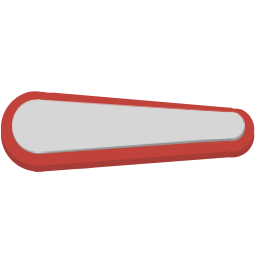
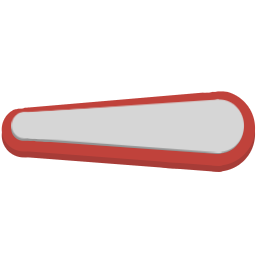
flippers & circles

Changed region(s): [[0.0, 0.3438, 1.0, 0.6875]]

diff --git a/machines.js b/machines.js
@@ -1,5 +1,6 @@
 function nullFunction() {}
 
+//piston
 function drawPistonShadow(obj, x, y, w, h) {
   let W = hole.fairway[0].length;
 
@@ -47,7 +48,6 @@ function drawPiston(obj, x, y, w, h) {
   drawStaticObject(x, y, obj.x + 0.5, obj.y + 0.5, w / W, pistonBlock, 1, obj.rotation, 0, 0);
 }
 
-
 function activatePiston(piston) {
   if(ball.isActive() && piston.body.c_velocity.v.length() > 0.01) { return; }
   let pistonStrength = 290 * (piston.power ? piston.power : 1);
@@ -56,7 +56,7 @@ function activatePiston(piston) {
     -Math.cos(piston.body.getAngle()) * pistonStrength), true);
 }
 
-
+//gate
 function drawGateShadow(obj, x, y, w, h) {
   let W = hole.fairway[0].length;
   drawObject(x + w / W * 0.02, y + w / W * 0.02, w / W, obj.gate1, gateShadow, 1, 0.5, 0, -0.25);
@@ -85,7 +85,7 @@ function activateGate(gate) {
   gate.active = !gate.active;
 }
 
-
+//trap door
 function drawTrapDoor(door, x, y, w, h) {
   if(door.active) {
     if(door.active &&
@@ -103,7 +103,7 @@ function activateTrapDoor(door) {
   door.active = !door.active;
 }
 
-
+//wedge
 function drawWedgeShadow(obj, x, y, w, h) {
   let W = hole.fairway[0].length;
 
@@ -118,6 +118,36 @@ function drawWedge(obj, x, y, w, h) {
   drawStaticObject(x, y, obj.x + 0.5, obj.y + 0.5, w / W, wedge, 1, obj.rotation, 0, 0);
 }
 
+//flipper
+function drawFlipperShadow(obj, x, y, w, h) {
+  let W = hole.fairway[0].length;
+  drawObject(x+w/W*0.02, y+w/W*0.02, w / W, obj.body, flipperShadow, 1, 0, -0.04,0,1,obj.f);
+  drawObject(x+w/W*0.04, y+w/W*0.04, w / W, obj.body, flipperShadow, 1, 0, -0.04,0,1,obj.f);
+  drawObject(x+w/W*0.06, y+w/W*0.06, w / W, obj.body, flipperShadow, 1, 0, -0.04,0,1,obj.f);
+}
+
+function drawFlipper(obj, x, y, w, h) {
+  let W = hole.fairway[0].length;
+  drawObject(x, y, w / W, obj.body, flipper, 1, 0, -0.04,0,1,obj.f);
+}
+
+function activateFlipper(obj) {
+  obj.active=!obj.active;
+  obj.joint.setMotorSpeed(obj.active?10:-10);
+}
+
+//wedge
+function drawCircleShadow(obj, x, y, w, h) {
+  let W = hole.fairway[0].length;
+}
+
+function drawCircle(obj, x, y, w, h) {
+  let W = hole.fairway[0].length;
+
+  drawStaticObject(x, y, obj.x + 0.5, obj.y + 0.5, w / W, circle);
+}
+
+//initializer
 function machine(m) {
   switch (m.type) {
     case 'trapDoor': {
@@ -269,6 +299,79 @@ function machine(m) {
       };
       for(let v in m) {
         obj[v] = m[v];
+      }
+      return obj;
+    }
+    case 'circle': {
+      let block = world.createBody(vec2(m.x + 0.5, m.y + 0.5));
+      block.createFixture(pl.Circle(0.4), 1);
+      let obj = {
+        body: block,
+        drawShadow: nullFunction,
+        draw: drawCircle,
+        activate: a => {}
+      };
+      for(let v in m) {
+        obj[v] = m[v];
+      }
+      return obj;
+    }
+    case 'flipper': {
+      let ground = world.createBody(vec2(m.x + 0.5, m.y + 0.5));
+      let flipper = world.createDynamicBody({
+        bullet: true,
+        position: vec2(
+          m.x + 0.5 + 0 * Math.cos(Math.PI * 2 * m.rotation),
+          m.y + 0.5 + 0 * Math.sin(Math.PI * 2 * m.rotation)),
+        angle: Math.PI * 2 * (m.rotation)
+      });
+
+      let xM = m.variety === 'right'?1:-1;
+
+      flipper.createFixture(pl.Polygon([
+        vec2(xM*-0.42, -0.09),
+        vec2(xM*-0.47, -0.07),
+        vec2(xM*-0.5, 0),
+        vec2(xM*-0.47, 0.07),
+        vec2(xM*-0.42, 0.09),
+        vec2(xM*0.38, 0.15),
+        vec2(xM*0.45, 0.11),
+        vec2(xM*0.5, 0),
+        vec2(xM*0.45, -0.11),
+        vec2(xM*0.38, -0.15),
+      ]), 10);
+
+      let gateD = {
+        enableMotor: true,
+        maxMotorTorque: 1000,
+        enableLimit: true,
+        motorSpeed: -10*xM*(m.active?-1:1),
+
+        lowerAngle: -0.1 * Math.PI,
+        upperAngle: 0.1 * Math.PI,
+      };
+
+      let joint = pl.RevoluteJoint(gateD, ground, flipper,
+        vec2(
+          m.x + 0.5 + xM*0.35 * Math.cos(Math.PI * 2 * m.rotation),
+          m.y + 0.5 + xM*0.35 * Math.sin(Math.PI * 2 * m.rotation)),
+      );
+
+      world.createJoint(joint);
+      let obj = {
+        active:false,
+        f:xM===1?0:1,
+        body: flipper,
+        joint: joint,
+        drawShadow: drawFlipperShadow,
+        draw: drawFlipper,
+        activate: activateFlipper
+      };
+      for(let v in m) {
+        obj[v] = m[v];
+      }
+      if(m.variety ==='left'){
+        obj.active = !obj.active;
       }
       return obj;
     }

diff --git a/holes.js b/holes.js
@@ -1,49 +1,6 @@
 let holes = [
   [],
-  [ {
-  tee: { x: 0.6, y: 2 },
-  hole: { x: 5, y: 1 },
-  fairway: [
-    [1, 1, 1, 1, 1, 1, 1, 1, 1, 1, 1],
-    [1, 1, 1, 1, 1, 1, 2, 2, 2, 2, 1],
-    [1, 1, 1, 1, 1, 2, 3, 1, 2, 2, 1],
-    [1, 0, 0, 1, 0, 2, 3, 1, 2, 2, 1],
-    [1, 0, 0, 0, 0, 0, 1, 1, 2, 2, 1],
-    [1, 1, 1, 1, 1, 1, 1, 1, 1, 1, 1],
-  ],
-  machines: [{
-    type: "piston",
-    variety: "square",
-    rotation: 0.25,
-    power: 0.5,
-    x: 0,
-    y: 2
-  },{
-    type: "trapDoor",
-    x: 4,
-    y: 2,
-    active:true
-  }, {
-    type: "flipper",
-    variety: "left",
-    rotation: 0.0,
-    x: 3,
-    y: 2.5
-  }, {
-    type: "wedge",
-    rotation: 0.25,
-    x: 3,
-    y: 1
-  }, {
-    type: "gate",
-    rotation: 0.50,
-    active: false,
-    x: 4,
-    y: 1
-  }],
-  par: 3,
-  best: 0
-},
+  [
     {
       tee: { x: 0, y: 2 },
       hole: { x: 7, y: 2 },

diff --git a/drawCourse.js b/drawCourse.js
@@ -1,3 +1,5 @@
+const DebugBodiesView = false;
+
 // data {img: image, r: rotation, f: flip?}
 function drawTransformedImage(data, x, y, w, h) {
   if(!data) { return; }
@@ -80,6 +82,8 @@ function debugBodies(x, y, m) {
           ctx.stroke();
           break;
         case 'polygon':
+          ctx.translate((-fixture.m_shape.m_centroid.x) * m, (-fixture.m_shape.m_centroid.y) * m);
+
           //tx += fixture.m_shape.m_centroid.x * m;
           //ty += fixture.m_shape.m_centroid.y * m;
 

diff --git a/assetsList.js b/assetsList.js
@@ -166,6 +166,12 @@ jeff.src = 'assets/jeff.png';
 const flipper = new Image();
 flipper.src = 'assets/flipper.png';
 
+const flipperShadow = new Image();
+flipperShadow.src = 'assets/flipperShadow.png';
+
+const circle = new Image();
+circle.src = 'assets/circle.png';
+
 
 const trapDoor = new Image();
 trapDoor.src = 'assets/trapdoorClosed.png';

diff --git a/game.js b/game.js
@@ -1,5 +1,5 @@
-let dev = true;
-let version = "0.0.11";
+let dev = false;
+let version = "0.1.0";
 
 const colors = ["white", "grey", "#151515", "white", "blue"];
 

diff --git a/playHole.js b/playHole.js
@@ -1,5 +1,3 @@
-const DebugBodiesView = false;
-
 let onHole = [-1, 0, 0, 0, 0];
 let playingHole = 0;
 
